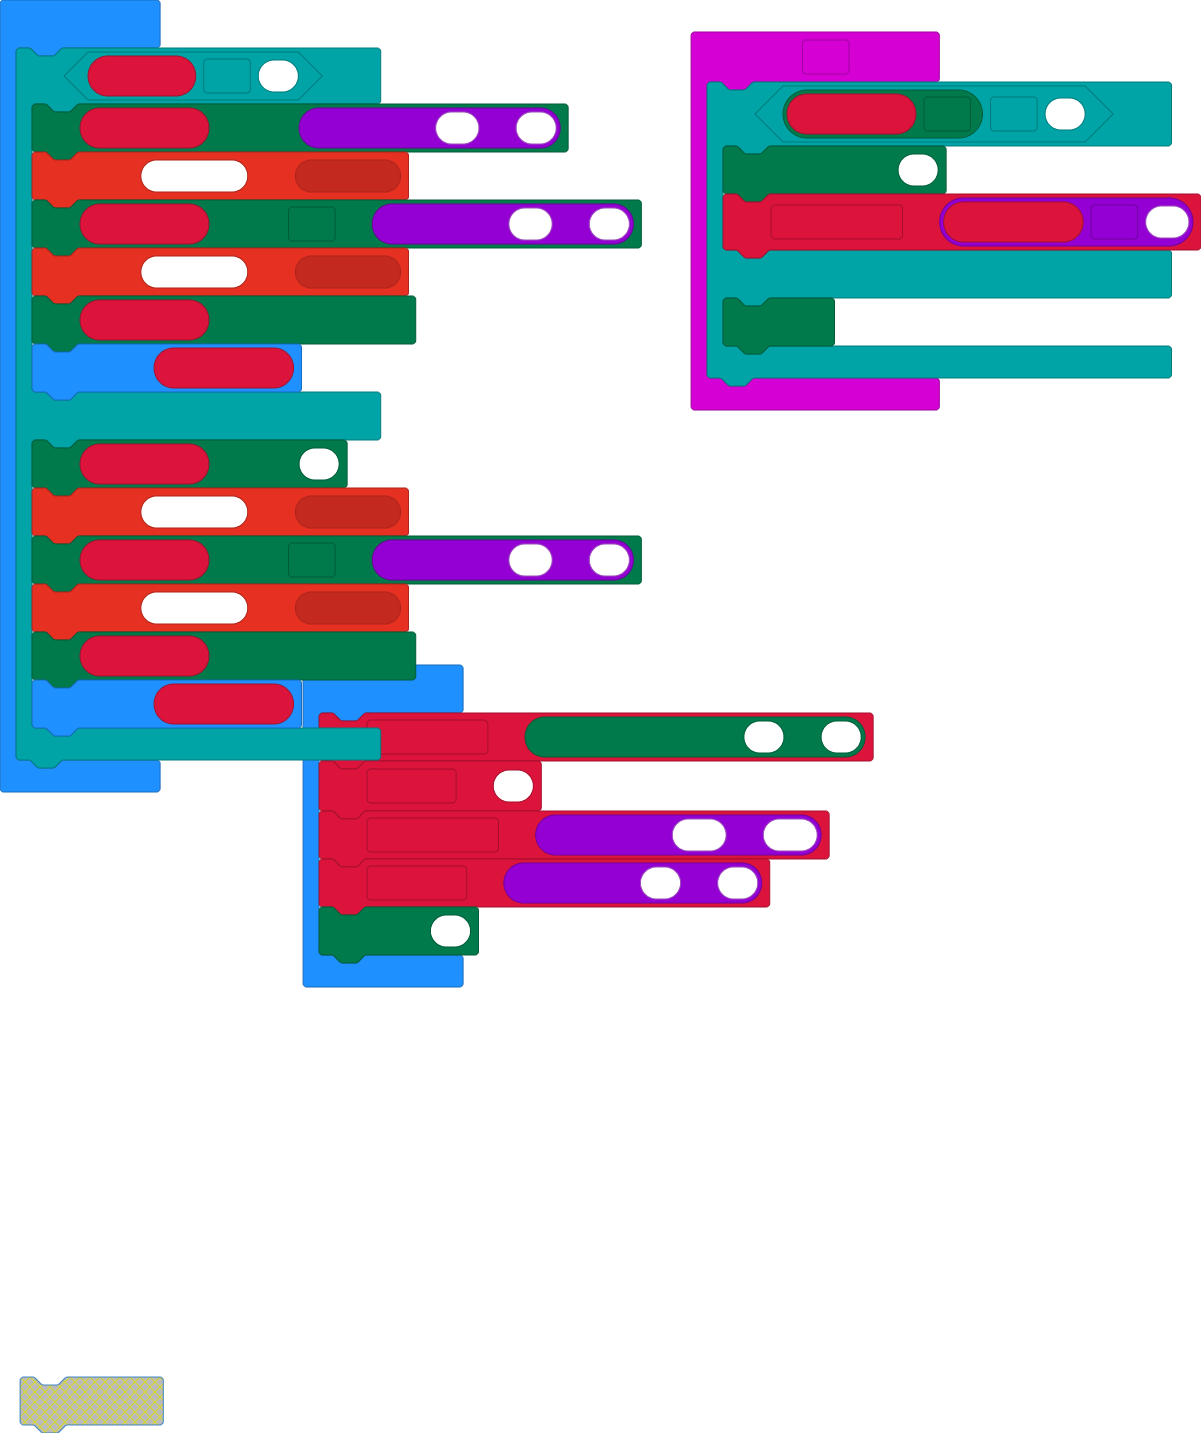
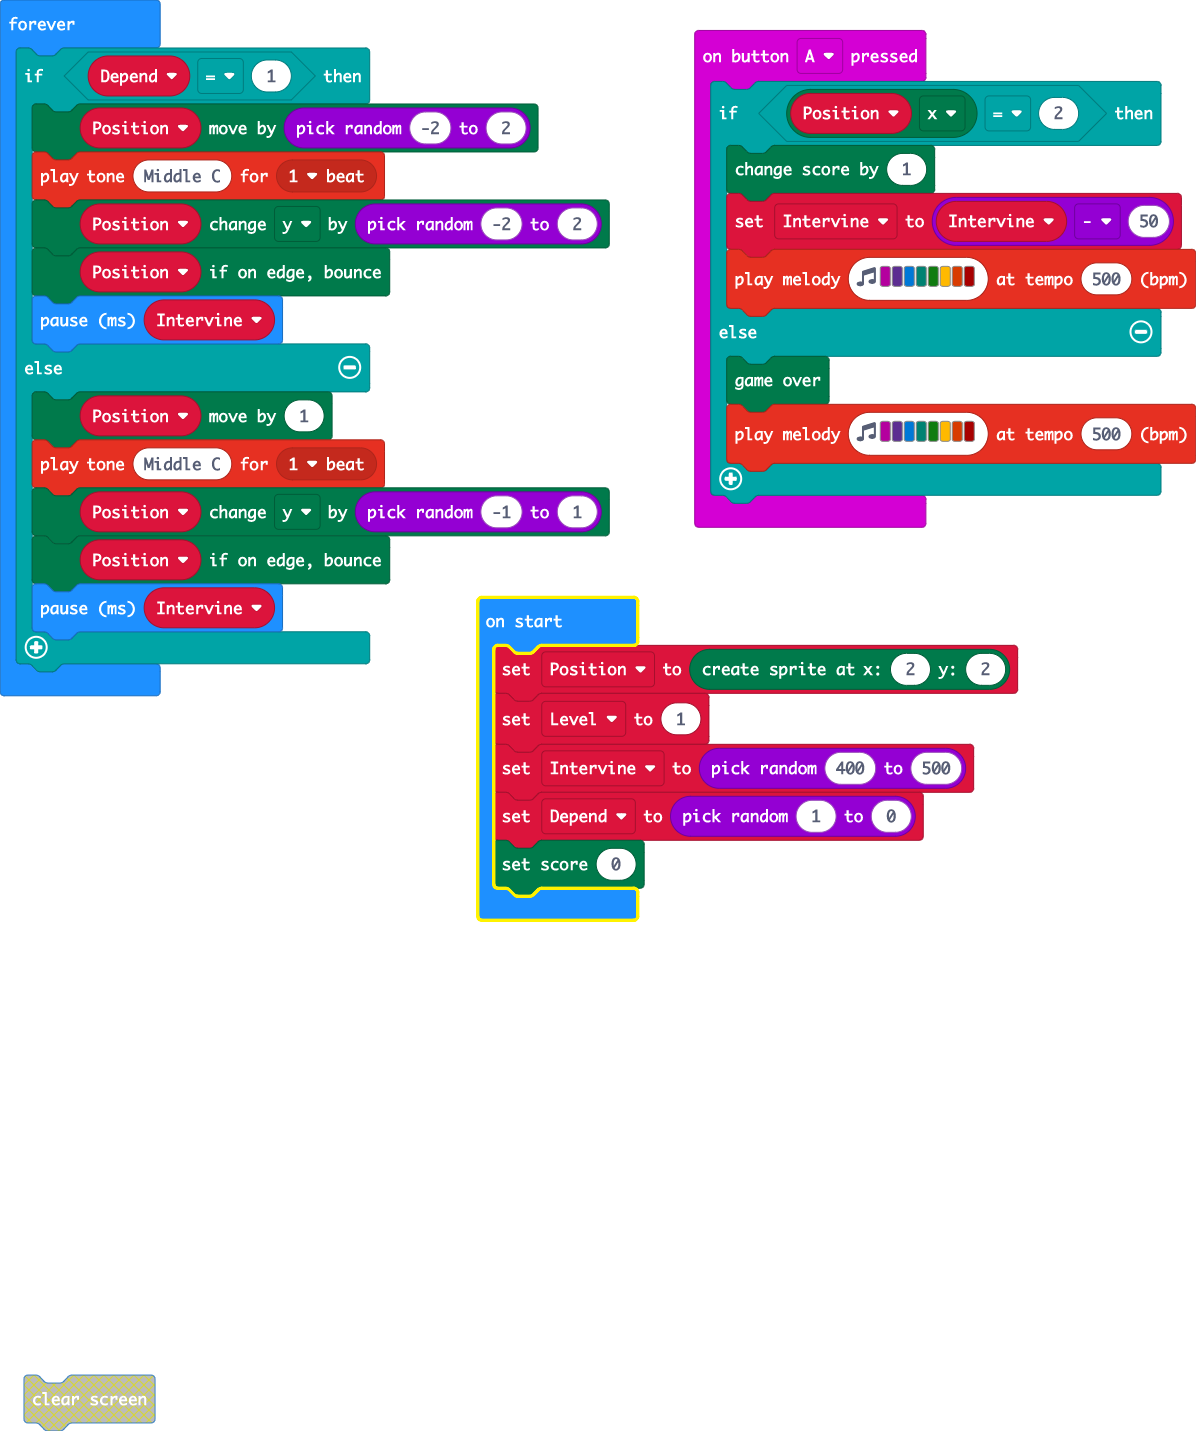
Update main.blocks, main.ts

diff --git a/main.ts b/main.ts
@@ -2,8 +2,10 @@ input.onButtonPressed(Button.A, function () {
     if (Position.get(LedSpriteProperty.X) == 2) {
         game.addScore(1)
         Intervine = Intervine - 50
+        music.playMelody("C D E F G A B C5 ", 500)
     } else {
         game.gameOver()
+        music.playMelody("C D E F G A B C5 ", 500)
     }
 })
 let Intervine = 0
@@ -18,14 +20,12 @@ basic.forever(function () {
         Position.move(randint(-2, 2))
         music.playTone(262, music.beat(BeatFraction.Whole))
         Position.change(LedSpriteProperty.Y, randint(-2, 2))
-        music.playTone(262, music.beat(BeatFraction.Whole))
         Position.ifOnEdgeBounce()
         basic.pause(Intervine)
     } else {
         Position.move(1)
         music.playTone(262, music.beat(BeatFraction.Whole))
         Position.change(LedSpriteProperty.Y, randint(-1, 1))
-        music.playTone(262, music.beat(BeatFraction.Whole))
         Position.ifOnEdgeBounce()
         basic.pause(Intervine)
     }
